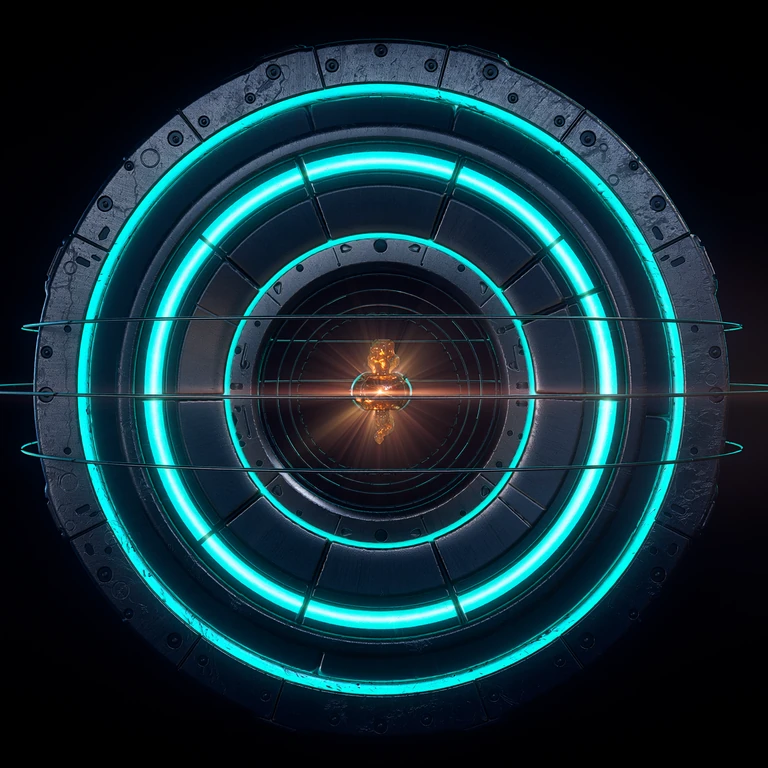
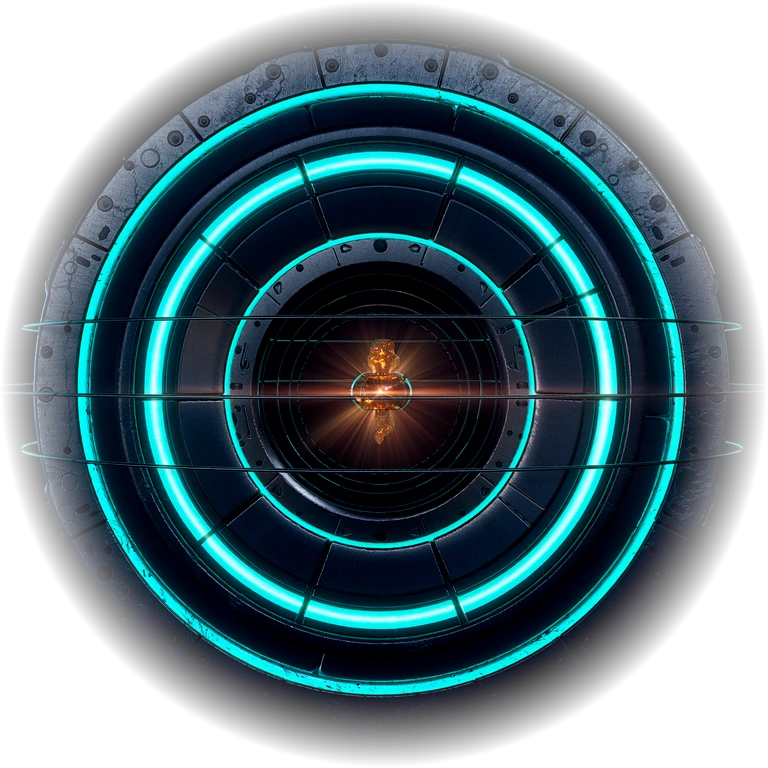
feat(cockpit): v24 MESA REAL — a superficie deixa de ser gradiente e vira placa
A mesa era cor sem materia. Agora e arte gerada (Firefly Image 5): placa de
vidro com aneis de radar gravados, ticks de graduacao e feixes subindo por
baixo. A geografia NAO vem da arte — o contorno do RJ continua sendo o IBGE
desenhado pelo canvas por cima. Em painel de auditoria territorio nao se
inventa.

No desktop a arte entra a 190%: a caixa tem quase a proporcao da imagem, e em
cover a borda reta da placa cortava o territorio como um risco fora de lugar.
Aproximada, so o interior fica no quadro.

Tambem: o asset do reator ganhou piso de preto e vinheta de alfa. Em composicao
aditiva o veu de quase-preto da arte somava e desenhava um QUADRADO em volta do
reator — agora a arte morre antes da borda e nao existe caixa.

diff --git a/static/jfn-painel.html b/static/jfn-painel.html
@@ -1735,6 +1735,31 @@
   .sect,.eco .k,.kpi .l,.ck-inst .lab,#portal .l1{
     font-family:var(--display);letter-spacing:.1em}
   nav.tabs button .tl{font-family:var(--display);letter-spacing:.02em;font-size:9px}
+
+  /* == v24 MESA - a superficie ganha corpo =================================
+     A mesa do cockpit era um gradiente radial: cor, sem materia. Agora a
+     superficie e ARTE GERADA (Firefly Image 5) - placa de vidro com aneis de
+     radar gravados, ticks de graduacao e feixes subindo por baixo. O que ela
+     NAO faz: geografia. O contorno do RJ continua vindo de rj-malha.js (IBGE),
+     desenhado pelo canvas POR CIMA - em painel de auditoria territorio nunca
+     pode ser inventado por gerador.
+     Mascara radial: a arte morre antes da borda do cartao, entao a placa nunca
+     desenha um retangulo dentro do retangulo. Blend screen sobre o gradiente
+     antigo: soma luz, nao substitui a base (o dark original fica intacto). */
+  .ck-nucleo::before{content:"";position:absolute;inset:0;z-index:0;pointer-events:none;
+    background:url(/static/assets/mesa-projecao.jpg) 50% 42%/cover no-repeat;
+    opacity:.5;mix-blend-mode:screen;
+    -webkit-mask-image:radial-gradient(ellipse 70% 74% at 50% 62%,#000 16%,rgba(0,0,0,.35) 70%,transparent 96%);
+    mask-image:radial-gradient(ellipse 70% 74% at 50% 62%,#000 16%,rgba(0,0,0,.35) 70%,transparent 96%)}
+  @media (prefers-reduced-transparency:reduce){.ck-nucleo::before{opacity:.24}}
+  /* No desktop o cartao tem quase a proporcao da arte, entao `cover` mostraria a
+     placa INTEIRA - e a borda reta dela cortava o territorio como um risco fora
+     de lugar. Aproximar 190% deixa so o INTERIOR da mesa no quadro: aneis,
+     ticks e feixes, sem aresta nenhuma. No celular a caixa e retrato e a
+     convergencia das arestas para o canto de baixo LE como mesa, entao la
+     `cover` fica. */
+  @media (min-width:900px){.ck-nucleo::before{background-size:190% auto;background-position:50% 45%}}
+
 </style>
 </head>
 <body>
